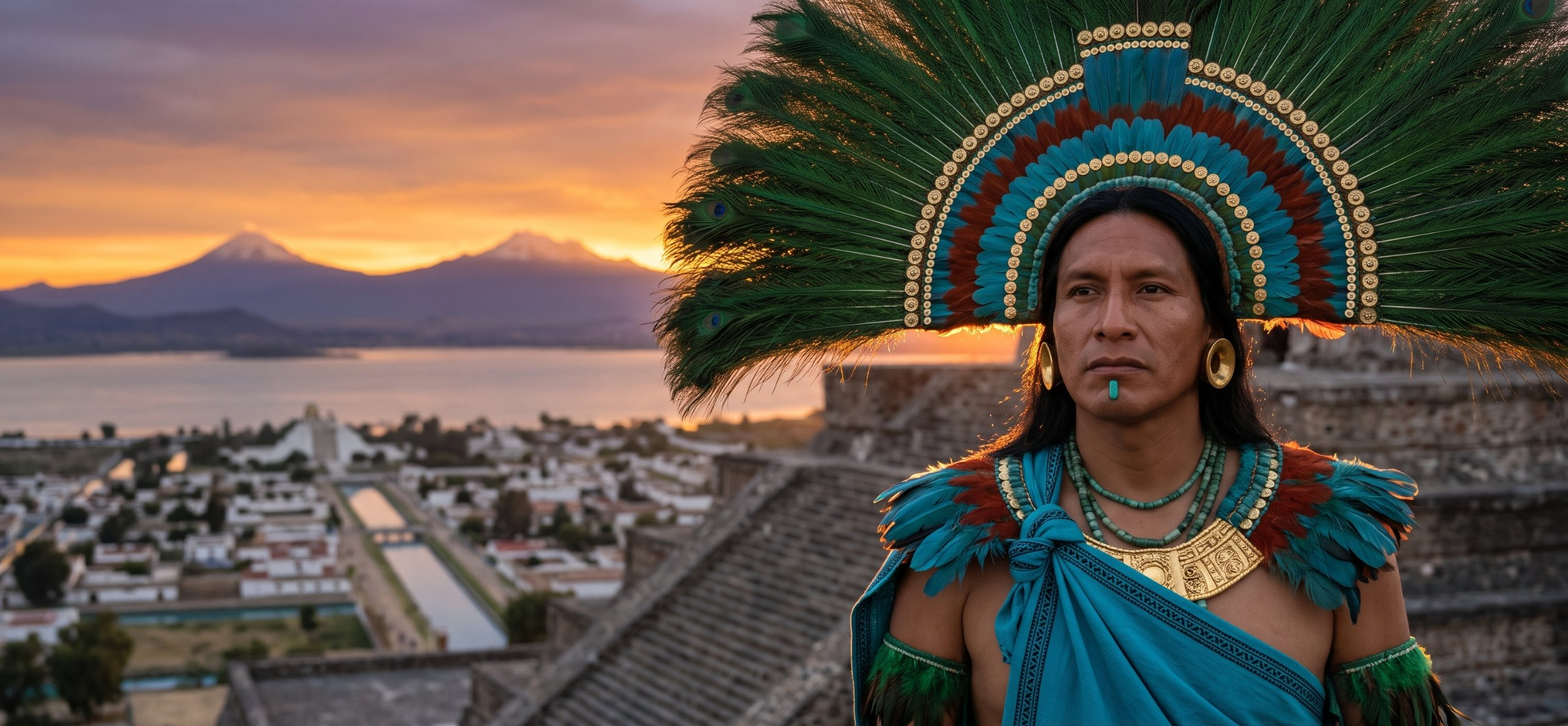
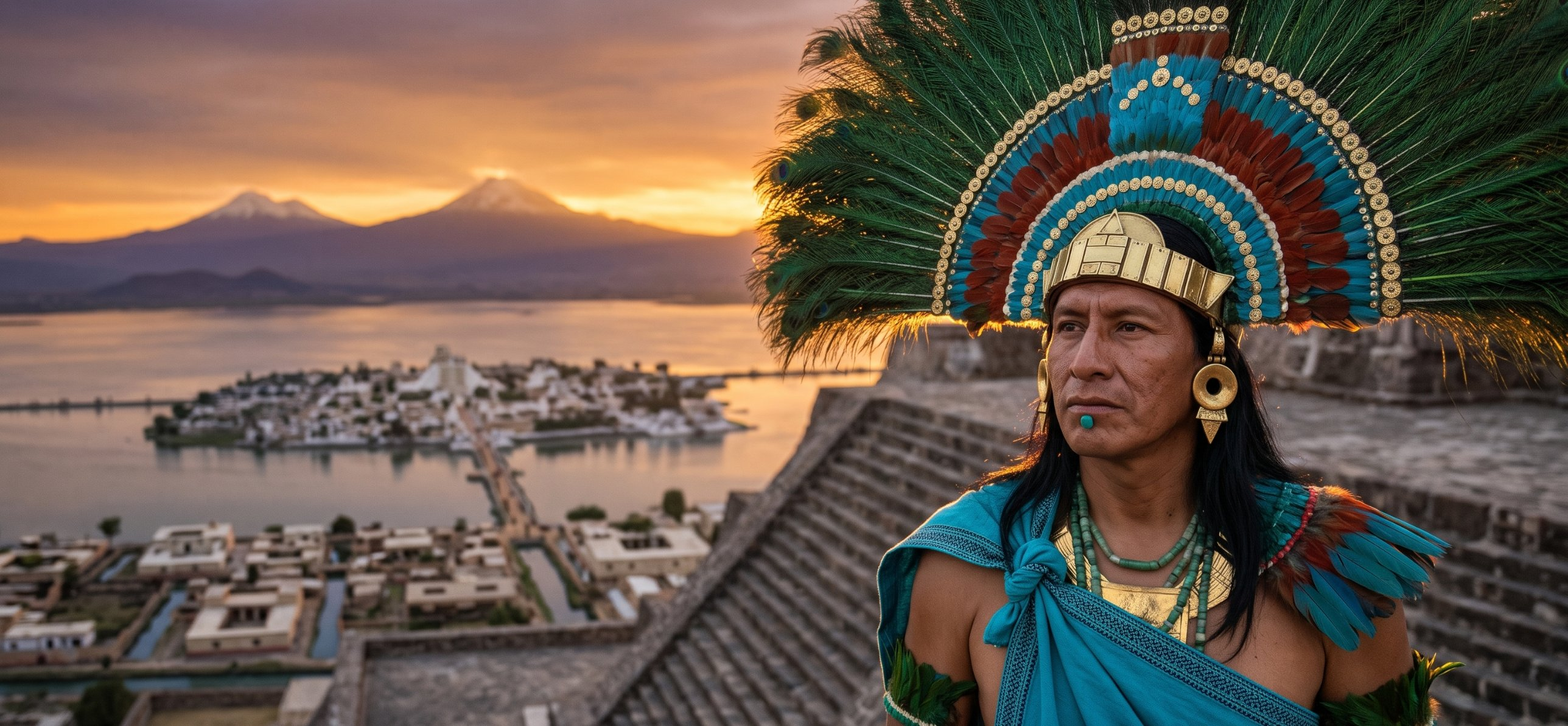
aztecs cover v3: first picture, semi-transparent title
Claude-Session: https://claude.ai/code/session_01Eqps5Sahr28cMUDEu1Hpkh

diff --git a/covers/mk_aztecs_picture.py b/covers/mk_aztecs_picture.py
@@ -16,5 +16,5 @@ while True:
     size -= 4
 x = (W - SPAN) / 2
 for c, w in zip(txt, ws): do.text((x, Y), c, font=fnt, fill=(246, 244, 238, AL), anchor="lm"); x += w + sp
-sh = Image.new("RGBA", (W, Hh), (0, 0, 0, 0)); sh.putalpha(ov.getchannel("A").filter(ImageFilter.GaussianBlur(14)).point(lambda v: int(v * 0.55)))
+sh = Image.new("RGBA", (W, Hh), (0, 0, 0, 0)); sh.putalpha(ov.getchannel("A").filter(ImageFilter.GaussianBlur(14)).point(lambda v: int(v * 0.30)))
 o = base.convert("RGBA"); o.alpha_composite(sh); o.alpha_composite(ov); o.convert("RGB").save(f"{HERE}/src/aztecs_picture.png"); print("size", size, "ink", ov.getchannel("A").getbbox())
